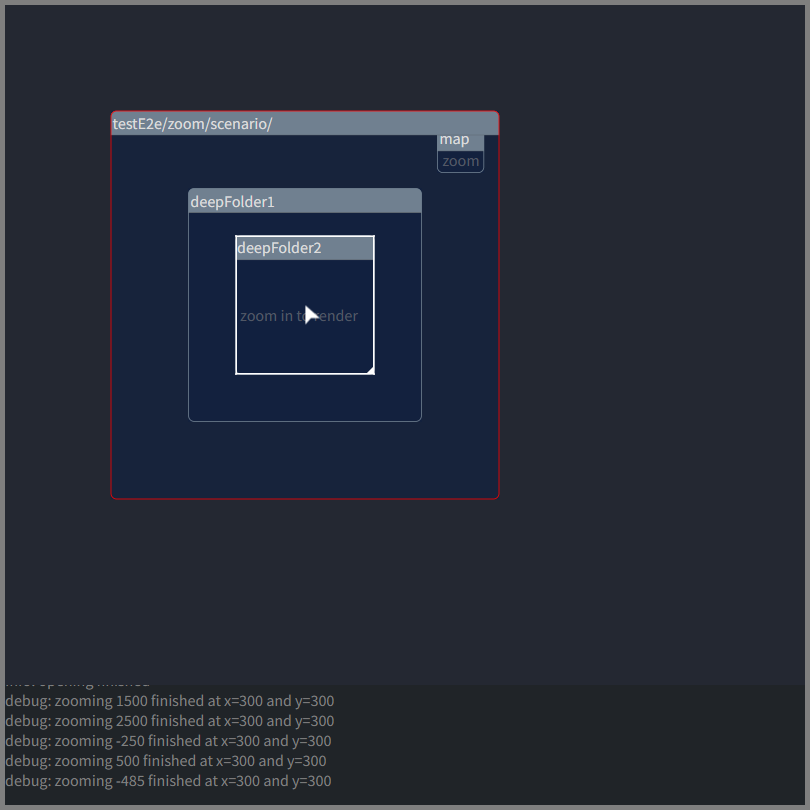
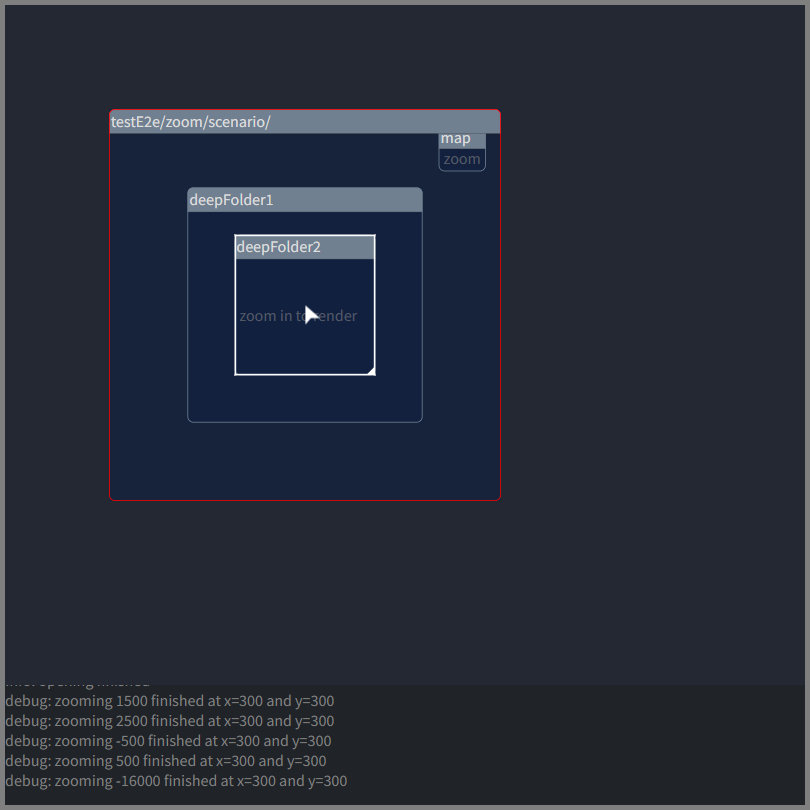
improve zooming, fix negative zoomlevel

diff --git a/testE2e/zoom/zoom.test.ts b/testE2e/zoom/zoom.test.ts
@@ -21,13 +21,13 @@ test('zoom in and out', async () => {
   await gui.zoom(2500)
   await e2eUtil.expectImageToMatchSnapshot({image: await gui.takeScreenshot()})
 
-  await gui.zoom(-250)
+  await gui.zoom(-500)
   await e2eUtil.expectImageToMatchSnapshot({image: await gui.takeScreenshot()})
 
   await gui.zoom(500)
   await e2eUtil.expectImageToMatchSnapshot({image: await gui.takeScreenshot()})
 
-  await gui.zoom(-485)
+  await gui.zoom(-16000)
   await e2eUtil.expectImageToMatchSnapshot({image: await gui.takeScreenshot()})
 })
 
@@ -35,27 +35,28 @@ test('zoom in and out without waiting', async () => {
   await gui.resetWindow()
   await gui.openFolder('testE2e/zoom/scenario')
   await gui.moveMouseTo(300, 300)
-  await gui.zoomWithoutWaitingInBetween([1500, 2500, -250, 500, -485])
+  await gui.zoomWithoutWaitingInBetween([1500, 2500, -500, 500, -16000])
   await gui.clearTerminal()
   await gui.moveMouseTo(300, 300)
   await e2eUtil.expectImageToMatchSnapshot({image: await gui.takeScreenshot()})
 })
-/* TODO work in progress
+
 test('zoom out far often', async () => {
   await gui.resetWindow()
   await gui.openFolder('testE2e/zoom/scenario')
-  for (let i = 0; i < 10; i++) {
-    await clearTerminalAndZoom(-400)
+  await clearTerminalAndZoom(2000)
+  for (let i = 0; i < 5; i++) {
+    await clearTerminalAndZoom(-10000)
     await e2eUtil.expectImageToMatchSnapshot({image: await gui.takeScreenshot(), snapshotIdentifier: 'zoom-out-far-often-1'})
-    await clearTerminalAndZoom(2000)
+    await clearTerminalAndZoom(10000)
     await e2eUtil.expectImageToMatchSnapshot({image: await gui.takeScreenshot(), snapshotIdentifier: 'zoom-out-far-often-2'})
   }
-}, 15000)
+}, 10000)
 
-test('zoom in far', async () => {
+test('zoom in extremely deep', async () => {
   // TODO
 })
-*/
+
 async function clearTerminalAndZoom(zoomDelta: number): Promise<void> {
   await gui.clearTerminal()
   await gui.moveMouseTo(300, 300)

diff --git a/src/Map.ts b/src/Map.ts
@@ -191,13 +191,19 @@ export class Map {
   }
 
   private async zoom(delta: number, clientX: number, clientY: number): Promise<void> {
-    let clientYPercent: number = 100 * clientY / this.mapRatioAdjusterSizePx
-    let clientXPercent: number = 100 * clientX / this.mapRatioAdjusterSizePx
-    let scaleChange: number = this.scalePercent * (delta/1500) * settings.getZoomSpeed() // TODO: improve
+    const deltaNormalized: number = delta*settings.getZoomSpeed() / 1500
+    const scaleFactor: number = delta > 0
+      ? 1+deltaNormalized
+      : 1 / (1-deltaNormalized)
+
+    const scalePercentNew: number = this.scalePercent * scaleFactor
+    const scaleChange: number = scalePercentNew - this.scalePercent
+    const clientYPercent: number = 100 * clientY / this.mapRatioAdjusterSizePx
+    const clientXPercent: number = 100 * clientX / this.mapRatioAdjusterSizePx
 
     this.marginTopPercent -= scaleChange * (clientYPercent - this.marginTopPercent) / this.scalePercent
     this.marginLeftPercent -= scaleChange * (clientXPercent - this.marginLeftPercent) / this.scalePercent
-    this.scalePercent += scaleChange
+    this.scalePercent = scalePercentNew
 
     await this.updateStyle(RenderPriority.RESPONSIVE)
     await this.rootFolder.render()

diff --git a/testE2e/zoomWithLinks/zoomWithLinks.test.ts b/testE2e/zoomWithLinks/zoomWithLinks.test.ts
@@ -12,8 +12,8 @@ test('spamming zoom in and out while hover over link', async () => {
     await clearTerminalAndZoom(2000)
     await e2eUtil.expectImageToMatchSnapshot({image: await gui.takeScreenshot(), snapshotIdentifier: 'spamming-zoom-in-and-out-1'})
 
-    await gui.zoom(-400)
-    await clearTerminalAndZoom(-400)
+    await gui.zoom(-2000)
+    await clearTerminalAndZoom(-2000)
     await e2eUtil.expectImageToMatchSnapshot({image: await gui.takeScreenshot(), snapshotIdentifier: 'spamming-zoom-in-and-out-2'})
   }
 }, 100000)
